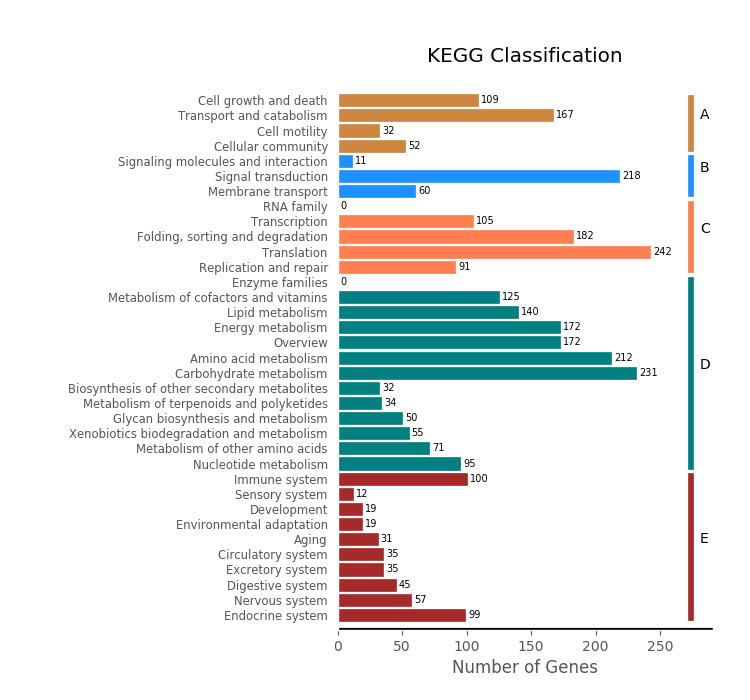
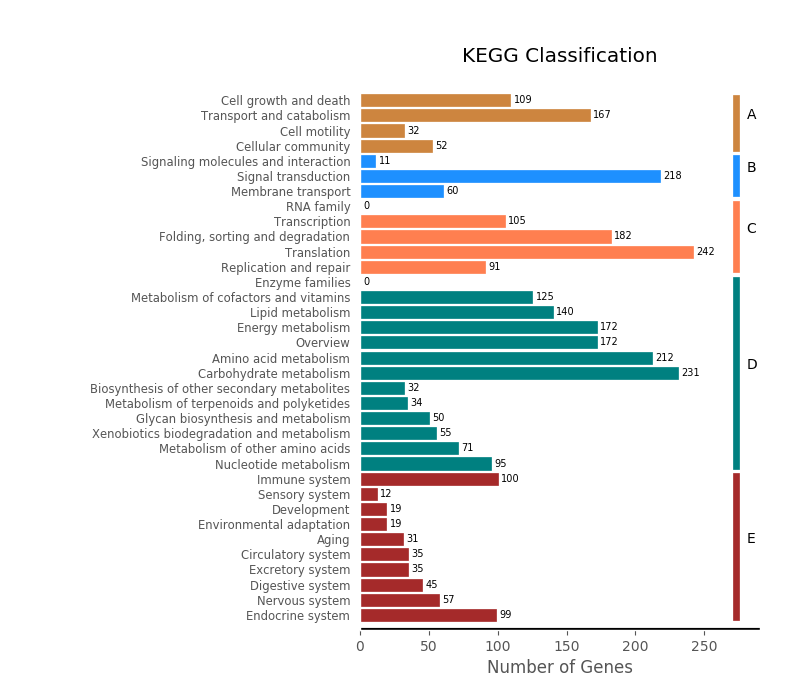
figsize

diff --git a/plot/kegg_classification/kegg_classification.py b/plot/kegg_classification/kegg_classification.py
@@ -95,7 +95,7 @@ def main():
 
     args=parser.parse_args()
 
-    fig = plt.figure(figsize=(7.5,7))
+    fig = plt.figure(figsize=(8,7))
     [ax_x, ax_y, ax_w, ax_h] = [0.45,0.1,0.5,0.8]   #[0.05,0.07,0.07,0.66] 
     ax = fig.add_axes([ax_x, ax_y, ax_w, ax_h], frame_on=True, axisbg = 'white')
 
